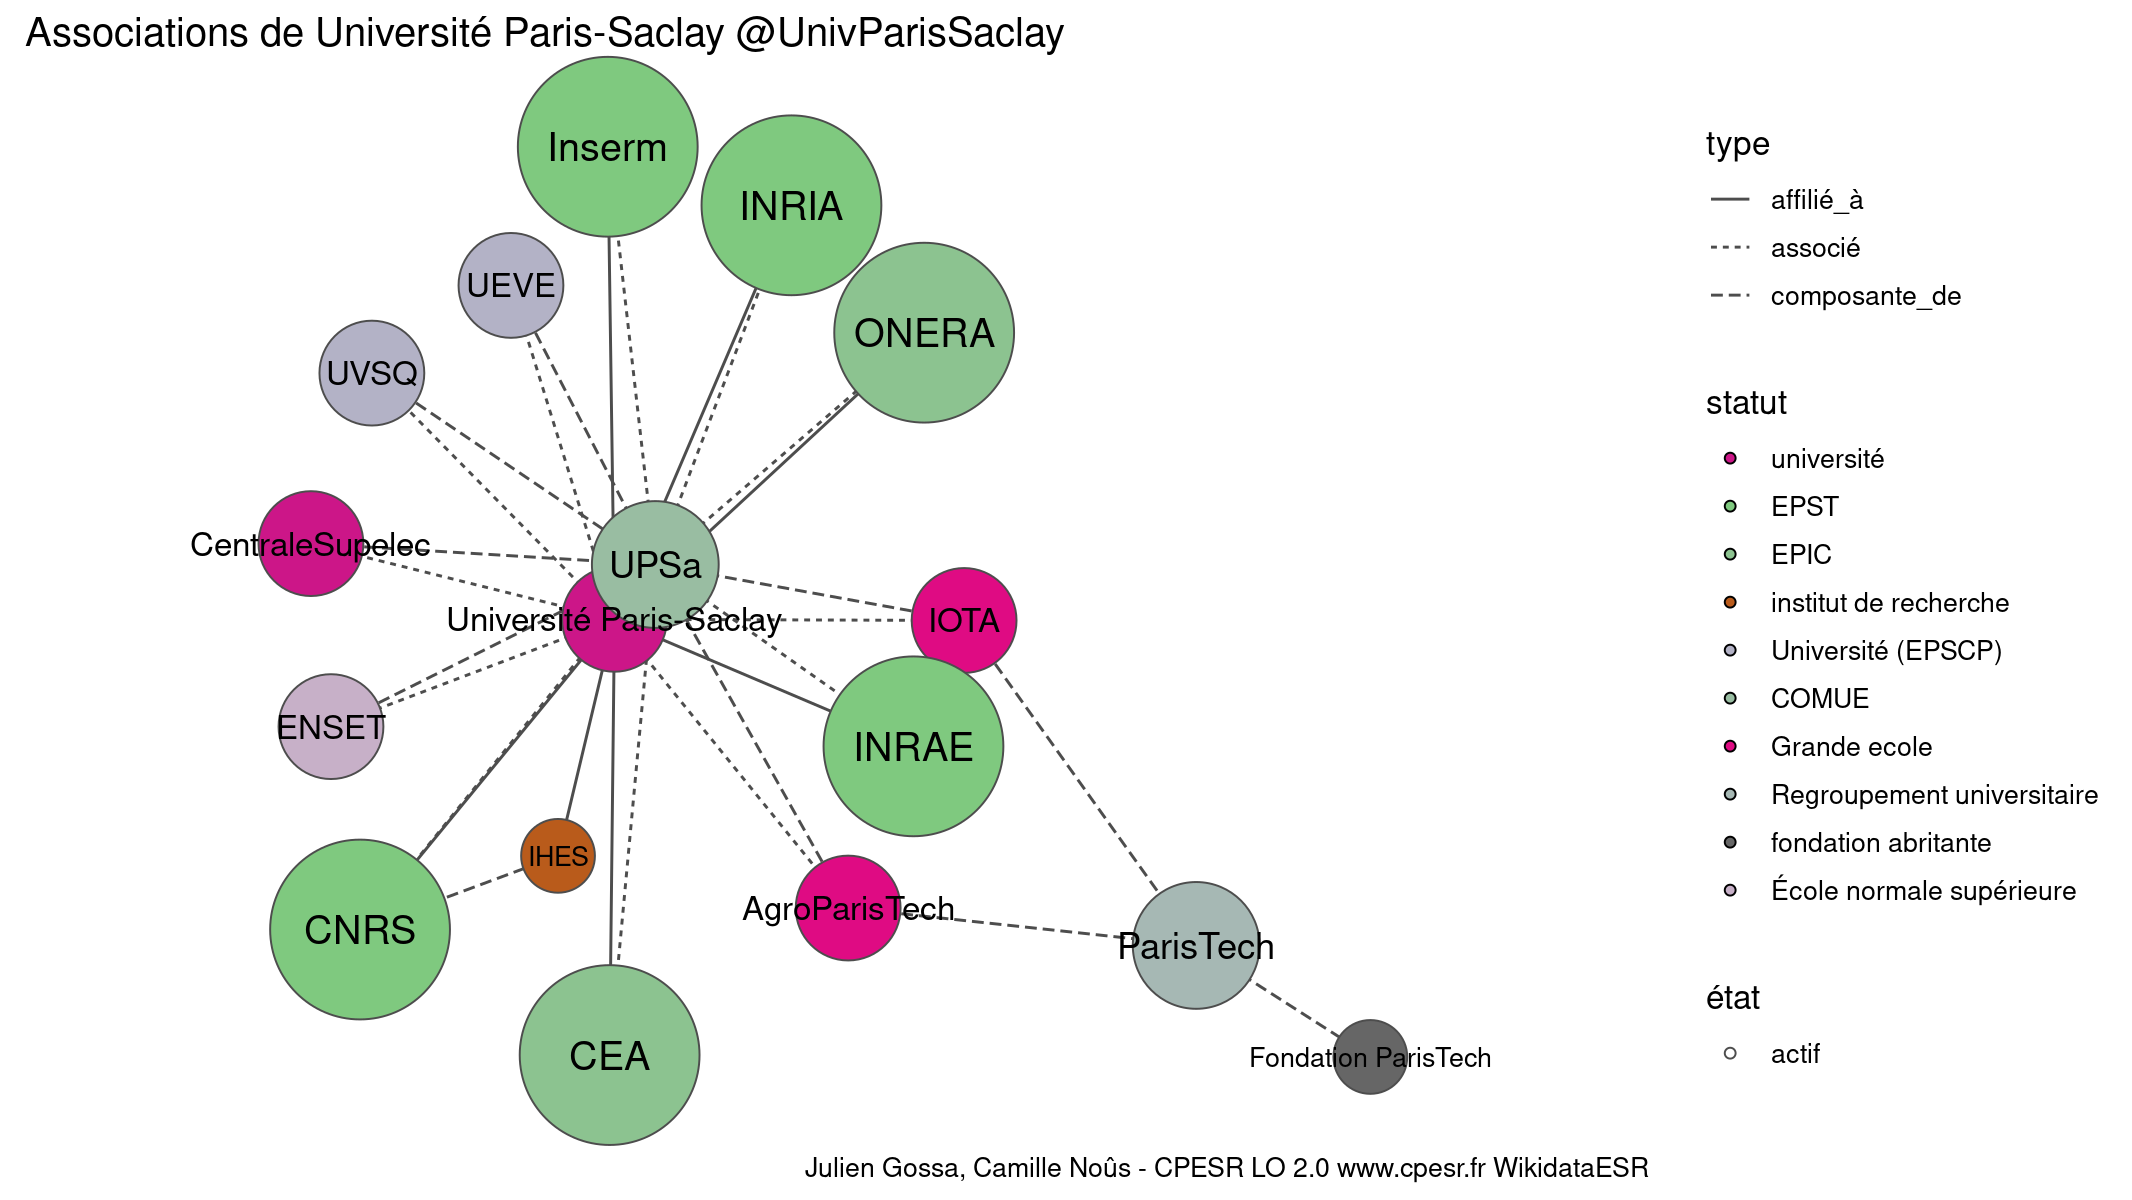
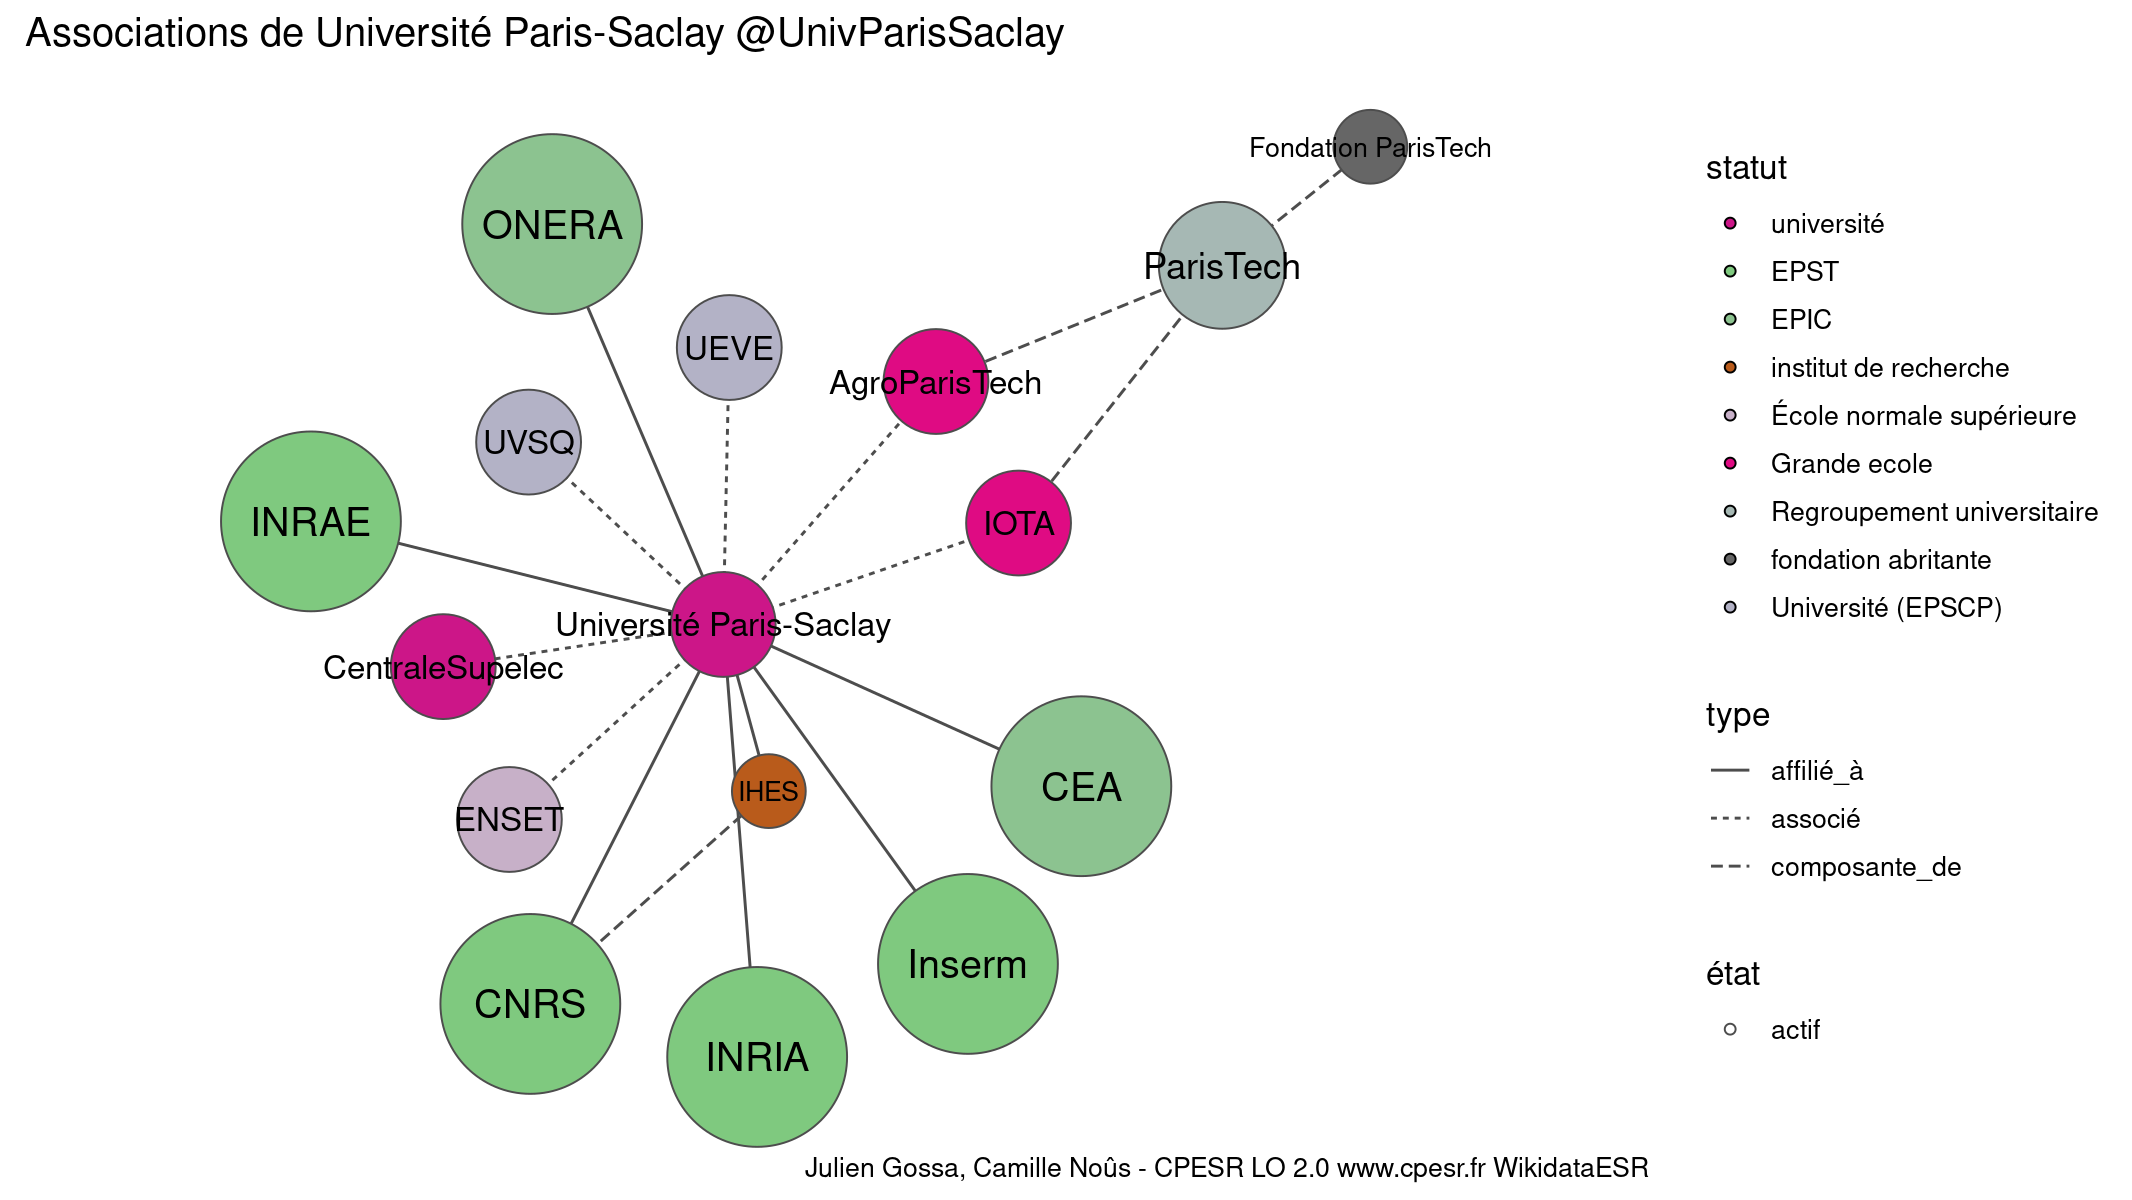
MAJ donnée UPSa

diff --git a/plots/etablissements/Q109409389.md b/plots/etablissements/Q109409389.md
@@ -14,17 +14,21 @@ Warnings wikidataESR pour : Université Paris-Saclay @UnivParisSaclay(14/11/2021
 
 Problèmes détectés dans les entités :
 
-|entité                                                 |alias                   |statut     |message                |
-|:------------------------------------------------------|:-----------------------|:----------|:----------------------|
-|[Q109409389](https://www.wikidata.org/wiki/Q109409389) |Université Paris-Saclay |université |Statut trop imprécis   |
-|[Q109409389](https://www.wikidata.org/wiki/Q109409389) |Université Paris-Saclay |université |Alias manquant ou long |
+|entité                                                 |alias                   |statut                 |message                |
+|:------------------------------------------------------|:-----------------------|:----------------------|:----------------------|
+|[Q109409389](https://www.wikidata.org/wiki/Q109409389) |Université Paris-Saclay |université             |Statut trop imprécis   |
+|[Q109409389](https://www.wikidata.org/wiki/Q109409389) |Université Paris-Saclay |université             |Alias manquant ou long |
+|[Q48759778](https://www.wikidata.org/wiki/Q48759778)   |NewUni                  |EPE                    |Préférer Q77979904     |
+|[Q3577932](https://www.wikidata.org/wiki/Q3577932)     |HEC Maroc               |institut universitaire |Statut trop imprécis   |
 
 Problèmes détectés dans les relations :
 
-|from                                                   |to                                                     |type         |message              |
-|:------------------------------------------------------|:------------------------------------------------------|:------------|:--------------------|
-|[Q109409389](https://www.wikidata.org/wiki/Q109409389) |[Q1480643](https://www.wikidata.org/wiki/Q1480643)     |prédécesseur |Date(s) manquante(s) |
-|[Q109409389](https://www.wikidata.org/wiki/Q109409389) |[Q109409389](https://www.wikidata.org/wiki/Q109409389) |prédécesseur |Date(s) manquante(s) |
+|from                                                   |to                                                   |type         |message              |
+|:------------------------------------------------------|:----------------------------------------------------|:------------|:--------------------|
+|[Q109409389](https://www.wikidata.org/wiki/Q109409389) |[Q1480643](https://www.wikidata.org/wiki/Q1480643)   |prédécesseur |Date(s) manquante(s) |
+|[Q109409389](https://www.wikidata.org/wiki/Q109409389) |[Q13531686](https://www.wikidata.org/wiki/Q13531686) |prédécesseur |Date(s) manquante(s) |
+|[Q13531686](https://www.wikidata.org/wiki/Q13531686)   |[Q48759778](https://www.wikidata.org/wiki/Q48759778) |séparé_de    |Date(s) manquante(s) |
+|[Q13531686](https://www.wikidata.org/wiki/Q13531686)   |[Q3577932](https://www.wikidata.org/wiki/Q3577932)   |séparé_de    |Date(s) manquante(s) |
 
 NB : les dates manquantes pour les relations de composante ne sont pas remontées. 
 
@@ -64,32 +68,34 @@ Problèmes détectés dans les entités :
 |[Q109409389](https://www.wikidata.org/wiki/Q109409389) |Université Paris-Saclay |université            |Alias manquant ou long                 |
 |[Q1156553](https://www.wikidata.org/wiki/Q1156553)     |IHES                    |institut de recherche |Statut trop imprécis                   |
 |[Q19203245](https://www.wikidata.org/wiki/Q19203245)   |CentraleSupelec         |université            |Statut trop imprécis                   |
-|[Q1637105](https://www.wikidata.org/wiki/Q1637105)     |AgroParisTech           |Grande ecole          |Réserver aux écoles non contemporaines |
 |[Q898448](https://www.wikidata.org/wiki/Q898448)       |IOTA                    |Grande ecole          |Réserver aux écoles non contemporaines |
+|[Q1637105](https://www.wikidata.org/wiki/Q1637105)     |AgroParisTech           |Grande ecole          |Réserver aux écoles non contemporaines |
 
 Problèmes détectés dans les relations :
 
-|from                                                   |to                                                   |type      |message              |
-|:------------------------------------------------------|:----------------------------------------------------|:---------|:--------------------|
-|[Q109409389](https://www.wikidata.org/wiki/Q109409389) |[Q280413](https://www.wikidata.org/wiki/Q280413)     |affilié_à |Date(s) manquante(s) |
-|[Q109409389](https://www.wikidata.org/wiki/Q109409389) |[Q1146208](https://www.wikidata.org/wiki/Q1146208)   |affilié_à |Date(s) manquante(s) |
-|[Q109409389](https://www.wikidata.org/wiki/Q109409389) |[Q70571774](https://www.wikidata.org/wiki/Q70571774) |affilié_à |Date(s) manquante(s) |
-|[Q109409389](https://www.wikidata.org/wiki/Q109409389) |[Q1474517](https://www.wikidata.org/wiki/Q1474517)   |affilié_à |Date(s) manquante(s) |
-|[Q109409389](https://www.wikidata.org/wiki/Q109409389) |[Q868550](https://www.wikidata.org/wiki/Q868550)     |affilié_à |Date(s) manquante(s) |
-|[Q109409389](https://www.wikidata.org/wiki/Q109409389) |[Q2007769](https://www.wikidata.org/wiki/Q2007769)   |affilié_à |Date(s) manquante(s) |
-|[Q109409389](https://www.wikidata.org/wiki/Q109409389) |[Q1156553](https://www.wikidata.org/wiki/Q1156553)   |affilié_à |Date(s) manquante(s) |
-|[Q109409389](https://www.wikidata.org/wiki/Q109409389) |[Q1531014](https://www.wikidata.org/wiki/Q1531014)   |associé   |Date(s) manquante(s) |
-|[Q109409389](https://www.wikidata.org/wiki/Q109409389) |[Q19203245](https://www.wikidata.org/wiki/Q19203245) |associé   |Date(s) manquante(s) |
-|[Q109409389](https://www.wikidata.org/wiki/Q109409389) |[Q186638](https://www.wikidata.org/wiki/Q186638)     |associé   |Date(s) manquante(s) |
-|[Q109409389](https://www.wikidata.org/wiki/Q109409389) |[Q1637105](https://www.wikidata.org/wiki/Q1637105)   |associé   |Date(s) manquante(s) |
-|[Q109409389](https://www.wikidata.org/wiki/Q109409389) |[Q273604](https://www.wikidata.org/wiki/Q273604)     |associé   |Date(s) manquante(s) |
-|[Q109409389](https://www.wikidata.org/wiki/Q109409389) |[Q898448](https://www.wikidata.org/wiki/Q898448)     |associé   |Date(s) manquante(s) |
-|[Q13531686](https://www.wikidata.org/wiki/Q13531686)   |[Q280413](https://www.wikidata.org/wiki/Q280413)     |associé   |Date(s) manquante(s) |
-|[Q13531686](https://www.wikidata.org/wiki/Q13531686)   |[Q1146208](https://www.wikidata.org/wiki/Q1146208)   |associé   |Date(s) manquante(s) |
-|[Q13531686](https://www.wikidata.org/wiki/Q13531686)   |[Q70571774](https://www.wikidata.org/wiki/Q70571774) |associé   |Date(s) manquante(s) |
-|[Q13531686](https://www.wikidata.org/wiki/Q13531686)   |[Q1474517](https://www.wikidata.org/wiki/Q1474517)   |associé   |Date(s) manquante(s) |
-|[Q13531686](https://www.wikidata.org/wiki/Q13531686)   |[Q868550](https://www.wikidata.org/wiki/Q868550)     |associé   |Date(s) manquante(s) |
-|[Q13531686](https://www.wikidata.org/wiki/Q13531686)   |[Q2007769](https://www.wikidata.org/wiki/Q2007769)   |associé   |Date(s) manquante(s) |
+|from                                                   |to                                                   |type          |message              |
+|:------------------------------------------------------|:----------------------------------------------------|:-------------|:--------------------|
+|[Q109409389](https://www.wikidata.org/wiki/Q109409389) |[Q280413](https://www.wikidata.org/wiki/Q280413)     |affilié_à     |Relation multiple    |
+|[Q109409389](https://www.wikidata.org/wiki/Q109409389) |[Q280413](https://www.wikidata.org/wiki/Q280413)     |affilié_à     |Relation multiple    |
+|[Q109409389](https://www.wikidata.org/wiki/Q109409389) |[Q280413](https://www.wikidata.org/wiki/Q280413)     |affilié_à     |Relation multiple    |
+|[Q1156553](https://www.wikidata.org/wiki/Q1156553)     |[Q280413](https://www.wikidata.org/wiki/Q280413)     |composante_de |Relation multiple    |
+|[Q1156553](https://www.wikidata.org/wiki/Q1156553)     |[Q280413](https://www.wikidata.org/wiki/Q280413)     |composante_de |Relation multiple    |
+|[Q1156553](https://www.wikidata.org/wiki/Q1156553)     |[Q280413](https://www.wikidata.org/wiki/Q280413)     |composante_de |Relation multiple    |
+|[Q109409389](https://www.wikidata.org/wiki/Q109409389) |[Q280413](https://www.wikidata.org/wiki/Q280413)     |affilié_à     |Date(s) manquante(s) |
+|[Q109409389](https://www.wikidata.org/wiki/Q109409389) |[Q280413](https://www.wikidata.org/wiki/Q280413)     |affilié_à     |Date(s) manquante(s) |
+|[Q109409389](https://www.wikidata.org/wiki/Q109409389) |[Q280413](https://www.wikidata.org/wiki/Q280413)     |affilié_à     |Date(s) manquante(s) |
+|[Q109409389](https://www.wikidata.org/wiki/Q109409389) |[Q1474517](https://www.wikidata.org/wiki/Q1474517)   |affilié_à     |Date(s) manquante(s) |
+|[Q109409389](https://www.wikidata.org/wiki/Q109409389) |[Q70571774](https://www.wikidata.org/wiki/Q70571774) |affilié_à     |Date(s) manquante(s) |
+|[Q109409389](https://www.wikidata.org/wiki/Q109409389) |[Q1146208](https://www.wikidata.org/wiki/Q1146208)   |affilié_à     |Date(s) manquante(s) |
+|[Q109409389](https://www.wikidata.org/wiki/Q109409389) |[Q868550](https://www.wikidata.org/wiki/Q868550)     |affilié_à     |Date(s) manquante(s) |
+|[Q109409389](https://www.wikidata.org/wiki/Q109409389) |[Q2007769](https://www.wikidata.org/wiki/Q2007769)   |affilié_à     |Date(s) manquante(s) |
+|[Q109409389](https://www.wikidata.org/wiki/Q109409389) |[Q1156553](https://www.wikidata.org/wiki/Q1156553)   |affilié_à     |Date(s) manquante(s) |
+|[Q109409389](https://www.wikidata.org/wiki/Q109409389) |[Q19203245](https://www.wikidata.org/wiki/Q19203245) |associé       |Date(s) manquante(s) |
+|[Q109409389](https://www.wikidata.org/wiki/Q109409389) |[Q273604](https://www.wikidata.org/wiki/Q273604)     |associé       |Date(s) manquante(s) |
+|[Q109409389](https://www.wikidata.org/wiki/Q109409389) |[Q898448](https://www.wikidata.org/wiki/Q898448)     |associé       |Date(s) manquante(s) |
+|[Q109409389](https://www.wikidata.org/wiki/Q109409389) |[Q1637105](https://www.wikidata.org/wiki/Q1637105)   |associé       |Date(s) manquante(s) |
+|[Q109409389](https://www.wikidata.org/wiki/Q109409389) |[Q1531014](https://www.wikidata.org/wiki/Q1531014)   |associé       |Date(s) manquante(s) |
+|[Q109409389](https://www.wikidata.org/wiki/Q109409389) |[Q186638](https://www.wikidata.org/wiki/Q186638)     |associé       |Date(s) manquante(s) |
 
 NB : les dates manquantes pour les relations de composante ne sont pas remontées. 
 

diff --git a/check.md b/check.md
@@ -2761,3 +2761,26 @@ Avertissements et édition : [logs](plots/etablissements/Q109409389.md)
 
 Avertissements et édition : [logs](plots/etablissements/Q109409389.md) 
 
+### Université Paris-Saclay @UnivParisSaclay : Histoire.     Edition des données : https://github.com/cpesr/wikidataESR/blob/master/plots/etablissements/Q109409389.md 
+
+![](plots/etablissements/Q109409389-histoire.png) 
+
+Avertissements et édition : [logs](plots/etablissements/Q109409389.md) 
+
+### Université Paris-Saclay @UnivParisSaclay : Composition.     Edition des données : https://github.com/cpesr/wikidataESR/blob/master/plots/etablissements/Q109409389.md 
+
+
+Erreur : les données sont probablement trop partielles.
+```
+Error in wdesr_ggplot_graph(df, node_size = node_size, label_sizes = label_sizes, : Empty ESR graph: something went wrong with the graph production parameters
+
+``` 
+
+Avertissements et édition : [logs](plots/etablissements/Q109409389.md) 
+
+### Université Paris-Saclay @UnivParisSaclay : Associations.     Edition des données : https://github.com/cpesr/wikidataESR/blob/master/plots/etablissements/Q109409389.md 
+
+![](plots/etablissements/Q109409389-associations.png) 
+
+Avertissements et édition : [logs](plots/etablissements/Q109409389.md) 
+
